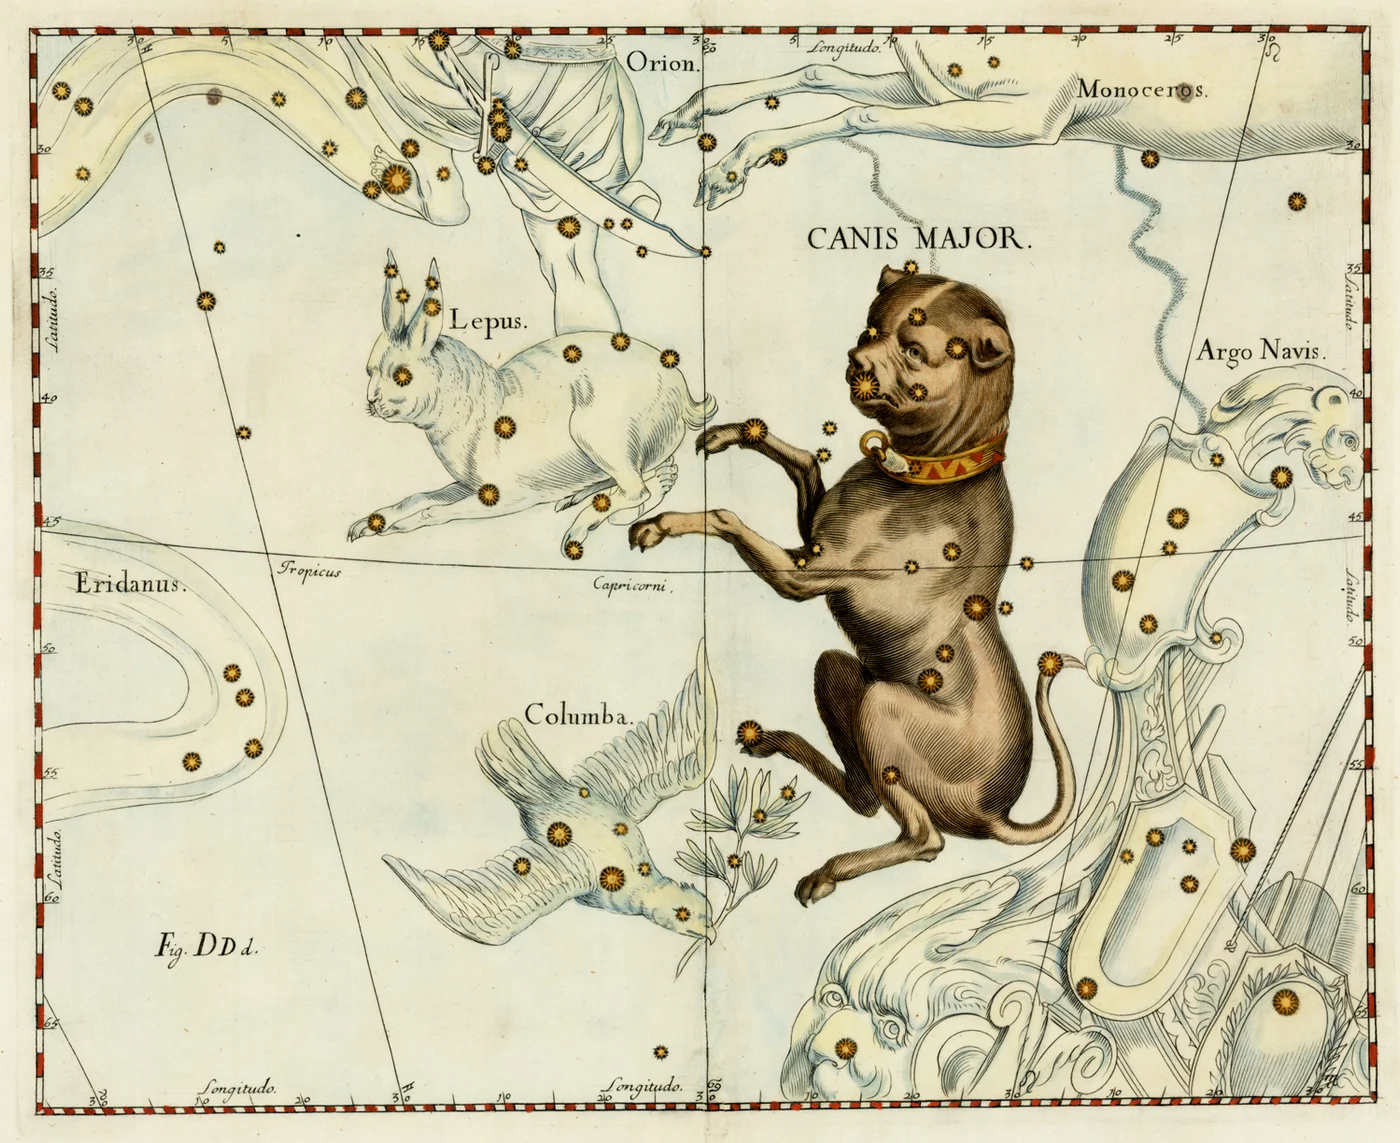
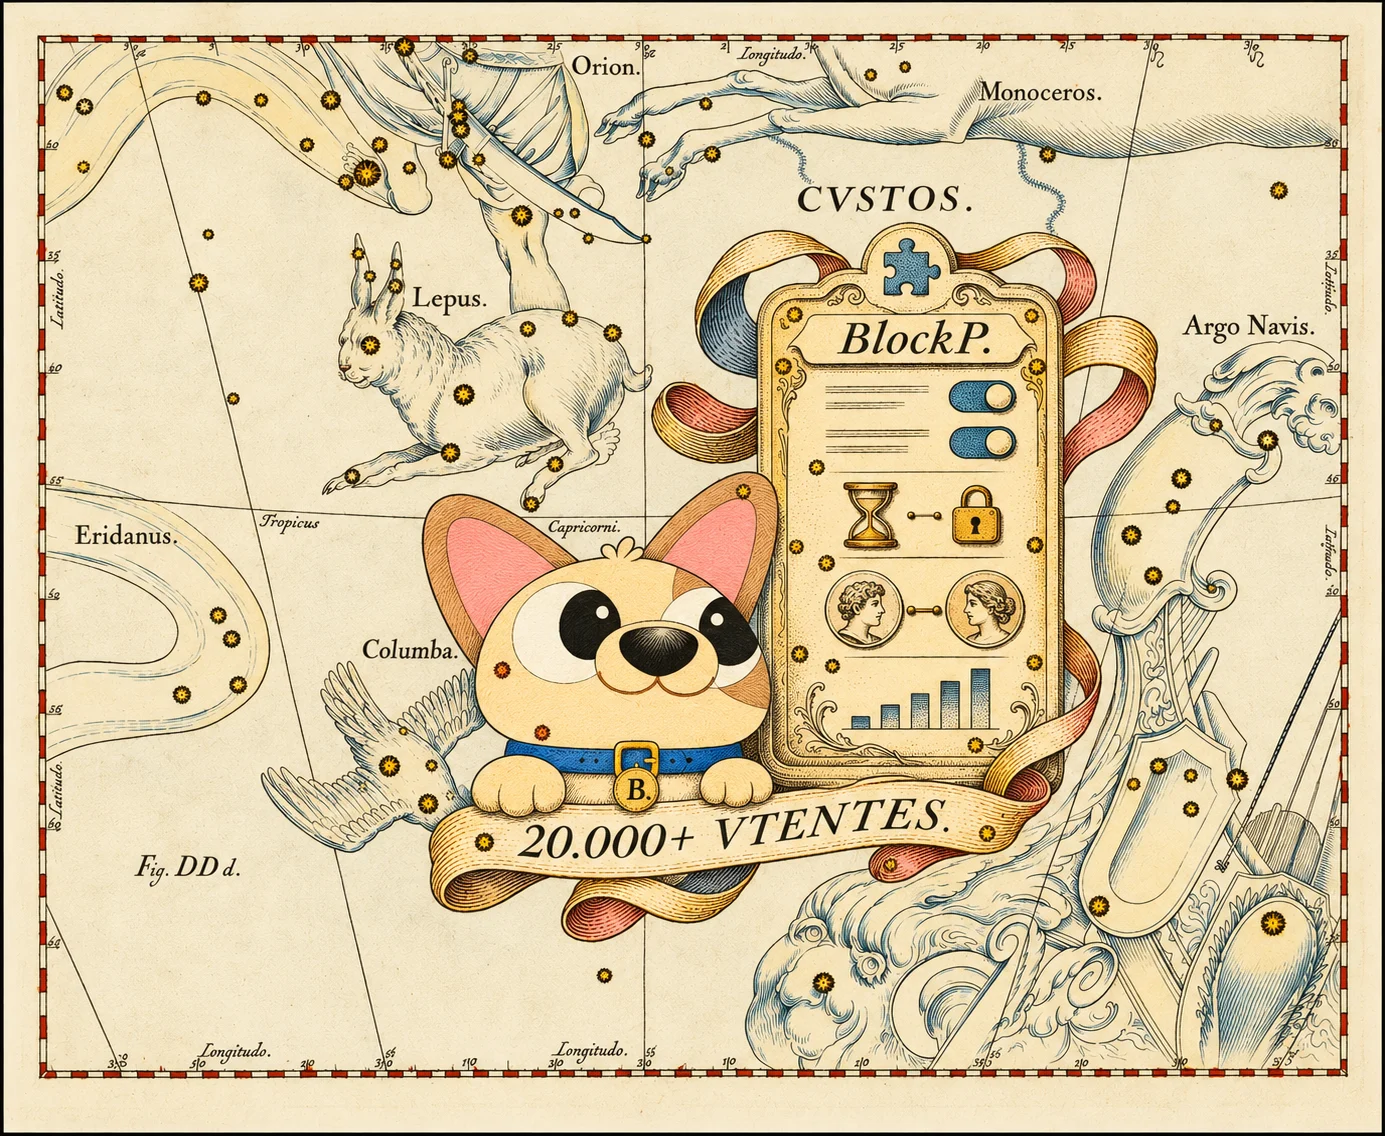
responsive and ew style

diff --git a/src/components/VeilCanvas.tsx b/src/components/VeilCanvas.tsx
@@ -1,0 +1,211 @@
+"use client";
+
+import { useEffect, useRef } from "react";
+import * as THREE from "three";
+import { gsap } from "gsap";
+import { ScrollTrigger } from "gsap/ScrollTrigger";
+import { isSimple, prefersReducedMotion } from "@/lib/scroll";
+
+gsap.registerPlugin(ScrollTrigger);
+
+/*
+ * The NudeNet plate's veil, drawn in WebGL over the card. The card arrives clear; when it
+ * reaches the middle of the screen a fine golden scan line sweeps down it, as if BlockP's
+ * on-device model were checking it, and behind the line the picture dissolves into a veil of
+ * mist: a soft lens blur (a golden-angle spiral of samples), slowly swirling, warmed toward
+ * the paper, with engraved-looking stipple and faint hatching so it still belongs to a 1690
+ * plate. Scrolling back lifts it again. It renders only while the card is on screen.
+ *
+ * Phones and tablets get the same sequence as a light CSS blur instead (no WebGL there).
+ */
+
+const vertex = /* glsl */ `
+  varying vec2 vUv;
+  void main() { vUv = uv; gl_Position = vec4(position.xy, 0.0, 1.0); }
+`;
+
+const fragment = /* glsl */ `
+  precision highp float;
+  varying vec2 vUv;
+  uniform sampler2D uTex;
+  uniform float uScan;      // where the scan line is, 0 = top .. 1 = bottom (past 1: done)
+  uniform float uTime;
+  uniform float uAspect;    // width / height of the card
+  uniform vec2 uRes;        // canvas size in pixels
+
+  float hash(vec2 p) { return fract(sin(dot(p, vec2(127.1, 311.7))) * 43758.5453); }
+  float noise(vec2 p) {
+    vec2 i = floor(p), f = fract(p);
+    vec2 u = f * f * (3.0 - 2.0 * f);
+    return mix(mix(hash(i), hash(i + vec2(1, 0)), u.x), mix(hash(i + vec2(0, 1)), hash(i + vec2(1, 1)), u.x), u.y);
+  }
+  float fbm(vec2 p) {
+    float v = 0.0, a = 0.5;
+    for (int i = 0; i < 5; i++) { v += a * noise(p); p *= 2.03; a *= 0.5; }
+    return v;
+  }
+
+  void main() {
+    vec2 uv = vUv;
+    float fromTop = 1.0 - uv.y;
+
+    // Mist that drifts and curls: a slow domain warp that also bends the picture a little.
+    float t = uTime * 0.12;
+    vec2 w = vec2(fbm(uv * 3.0 + vec2(t, -t * 0.7)), fbm(uv * 3.0 + vec2(5.2 - t * 0.8, 1.3 + t)));
+    float mist = fbm(uv * 4.0 + w * 1.6 + t * 0.5);
+
+    // The scan front is a natural, torn-paper edge (like the burnt, torn edges between the
+    // site's sections): uneven teeth, each a different width and height with softened tips,
+    // plus a fine fibrous tremor, as if the veil were a sheet torn by hand. edge(x) is its
+    // offset (in card heights) at this column, fixed in time.
+    float ph = uv.x * 15.0 + fbm(vec2(uv.x * 2.3, 3.7)) * 4.0;          // uneven spacing
+    float tri = abs(fract(ph) - 0.5) * 2.0;                                  // 0..1..0 teeth
+    tri = sqrt(tri * tri + 0.015);                                           // softened tips
+    float amp = 0.008 + 0.017 * noise(vec2(uv.x * 6.0, 1.3));                // uneven heights
+    float fibre = (noise(vec2(uv.x * 140.0, 7.1)) - 0.5) * 0.005
+                + (noise(vec2(uv.x * 380.0, 2.9)) - 0.5) * 0.0025;
+    float edge = (tri - 0.5) * amp * 2.0 + fibre;
+    // Its local slope, to keep the line an even thickness on steep parts.
+    float e2 = (abs(fract(ph + 0.01) - 0.5) * 2.0 - abs(fract(ph) - 0.5) * 2.0) * amp * 2.0 / 0.01 * 15.0;
+    float thin = 1.0 / sqrt(1.0 + pow(e2 / uAspect, 2.0));
+
+    // 1 where the front has passed (above it): it follows that torn edge, softened a little
+    // by the mist, so the veil rolls in.
+    float front = fromTop - edge + (mist - 0.5) * 0.02;
+    // A short soft margin just inside the edge, so the gold line sits right on the edge.
+    float veil = 1.0 - smoothstep(uScan - 0.022, uScan - 0.002, front);
+    vec2 q = uv + veil * 0.018 * (w - 0.5);
+
+    // Lens blur: samples on a golden-angle spiral (round, soft highlights), wider where the
+    // mist is thicker.
+    float radius = veil * (0.016 + 0.014 * mist);
+    vec3 col = vec3(0.0);
+    const int N = 40;
+    for (int i = 0; i < N; i++) {
+      float fi = float(i);
+      float r = sqrt((fi + 0.5) / float(N));
+      float a = fi * 2.39996323;
+      vec2 o = vec2(cos(a), sin(a) * uAspect) * r * radius;
+      col += texture2D(uTex, q + o).rgb;
+    }
+    col /= float(N);
+
+    // Warm haze toward the paper, brighter where the mist gathers.
+    vec3 paper = vec3(0.93, 0.89, 0.81);
+    col = mix(col, paper, veil * (0.18 + 0.32 * smoothstep(0.35, 0.8, mist)));
+
+    // Engraved texture in the veil: stipple dots and faint diagonal hatching, like the way a
+    // copperplate engraver draws mist.
+    vec2 px = gl_FragCoord.xy;
+    float stip = step(0.86, hash(floor(px / 1.6) + floor(uTime * 6.0)));
+    float hatch = smoothstep(0.75, 1.0, sin((px.x + px.y) * 0.9));
+    col *= 1.0 - veil * (0.07 * stip + 0.05 * hatch * smoothstep(0.45, 0.75, mist));
+
+    // The scan line: one warm gold line along the torn edge, swelling and thinning like a
+    // quill stroke, with a soft glow, a few gold sparks and a warm afterglow behind it. All
+    // gone once the sweep is done.
+    float lineOn = 1.0 - smoothstep(1.0, 1.08, uScan);
+    float along = front;                              // the same edge the veil follows
+    float d = abs(along - uScan) * thin;
+    float stroke = 0.55 + 0.9 * noise(vec2(uv.x * 9.0, 4.4));              // quill pressure
+    float line = exp(-d * d * 52000.0 / (stroke * stroke));
+    float glow = 0.28 * exp(-d * 48.0);
+    float spark = step(0.993, hash(floor(px / 2.0) + floor(uTime * 18.0))) * exp(-d * 30.0);
+    float trail = (along < uScan ? 1.0 : 0.0) * exp(-(uScan - along) * 14.0) * 0.18;
+    vec3 gold = vec3(1.0, 0.8, 0.42);
+    vec3 deep = vec3(0.72, 0.48, 0.16);                                      // the stroke's core
+    col = mix(col, gold, clamp((glow + spark * 1.5 + trail) * lineOn, 0.0, 1.0) * 0.85);
+    col = mix(col, mix(gold, deep, 0.55), clamp(line * lineOn, 0.0, 1.0) * 0.95);
+
+    float alpha = clamp(veil + (line + glow + spark) * lineOn, 0.0, 1.0);
+    gl_FragColor = vec4(col, alpha);
+  }
+`;
+
+export default function VeilCanvas({ src, trigger, card }: {
+  /** The full-colour plate image. */
+  src: string;
+  /** The element whose scroll position drives the veil (the plate's place on the page). */
+  trigger: React.RefObject<HTMLElement | null>;
+  /** The card element, for the CSS version on phones and tablets. */
+  card: React.RefObject<HTMLElement | null>;
+}) {
+  const canvasRef = useRef<HTMLCanvasElement>(null);
+
+  useEffect(() => {
+    const el = trigger.current, canvas = canvasRef.current;
+    if (!el || !canvas || prefersReducedMotion()) return;
+    // The scan reaches the bottom at 85% of the range; the veil then holds.
+    const range = { trigger: el, start: "top 62%", end: "center 38%", scrub: true };
+
+    if (isSimple()) {
+      const tw = gsap.fromTo(card.current, { filter: "blur(0px)" }, { filter: "blur(9px)", ease: "power1.in", scrollTrigger: range });
+      return () => { tw.scrollTrigger?.kill(); tw.kill(); };
+    }
+
+    const renderer = new THREE.WebGLRenderer({ canvas, alpha: true, premultipliedAlpha: false, antialias: false });
+    const scene = new THREE.Scene();
+    const camera = new THREE.Camera();
+    const uniforms = {
+      uTex: { value: null as THREE.Texture | null },
+      uScan: { value: -0.1 }, uTime: { value: 0 }, uAspect: { value: 1 },
+      uRes: { value: new THREE.Vector2(1, 1) },
+    };
+    const material = new THREE.ShaderMaterial({ vertexShader: vertex, fragmentShader: fragment, uniforms, transparent: true });
+    scene.add(new THREE.Mesh(new THREE.PlaneGeometry(2, 2), material));
+
+    let ready = false, visible = false, frame = 0;
+    const clock = new THREE.Clock();
+    const size = () => {
+      const w = canvas.clientWidth || 1, h = canvas.clientHeight || 1;
+      renderer.setPixelRatio(Math.min(window.devicePixelRatio, 2));
+      renderer.setSize(w, h, false);
+      uniforms.uAspect.value = w / h;
+      uniforms.uRes.value.set(w, h);
+    };
+    const draw = () => {
+      if (!ready) return;
+      uniforms.uTime.value = clock.getElapsedTime();
+      renderer.render(scene, camera);
+    };
+    // Animate the mist only while the card is on screen and the veil is showing.
+    const loop = () => {
+      frame = 0;
+      if (!visible) return;
+      draw();
+      if (uniforms.uScan.value > -0.05) frame = requestAnimationFrame(loop);
+    };
+    const kick = () => { if (!frame && visible) frame = requestAnimationFrame(loop); };
+
+    new THREE.TextureLoader().load(src, (tex) => {
+      tex.colorSpace = THREE.SRGBColorSpace;
+      tex.minFilter = THREE.LinearFilter;
+      uniforms.uTex.value = tex;
+      ready = true;
+      size();
+      draw();
+    });
+
+    const state = { p: 0 };
+    const tw = gsap.to(state, {
+      p: 1, ease: "none", scrollTrigger: range,
+      onUpdate: () => { uniforms.uScan.value = -0.1 + state.p * 1.3; kick(); if (!frame) draw(); },
+    });
+    const io = new IntersectionObserver(([e]) => { visible = e.isIntersecting; kick(); });
+    io.observe(canvas);
+    const onResize = () => { size(); draw(); };
+    window.addEventListener("resize", onResize);
+
+    return () => {
+      cancelAnimationFrame(frame);
+      io.disconnect();
+      window.removeEventListener("resize", onResize);
+      tw.scrollTrigger?.kill(); tw.kill();
+      uniforms.uTex.value?.dispose();
+      material.dispose();
+      renderer.dispose();
+    };
+  }, [src, trigger, card]);
+
+  return <canvas ref={canvasRef} aria-hidden className="pointer-events-none absolute inset-0 h-full w-full" />;
+}

diff --git a/src/components/AtlasPlate.tsx b/src/components/AtlasPlate.tsx
@@ -4,6 +4,7 @@ import { useEffect, useRef } from "react";
 import { gsap } from "gsap";
 import { ScrollTrigger } from "gsap/ScrollTrigger";
 import { prefersReducedMotion } from "@/lib/scroll";
+import VeilCanvas from "@/components/VeilCanvas";
 
 gsap.registerPlugin(ScrollTrigger);
 
@@ -20,18 +21,21 @@ export type Sky =
   | "pegasus" | "canismajor" | "draco" | "libra" | "perseus" | "sextans";
 export type SkyProject = { tagline: string; label: string; body: string; link?: string; sky: Sky };
 
-// width / height of each plate image; `hevelius`: a real plate from the 1690 atlas.
-const PLATES: Record<Sky, { name: string; fig: string; alt: string; aspect: number; hevelius?: boolean }> = {
+// width / height of each plate image. All are new or redrawn plates in the style of Hevelius'
+// atlas (1690). `veil`: in the middle of the screen a scan sweeps the card and veils it in
+// mist (VeilCanvas), the way BlockP blurs an image on the device (the NudeNet write-up).
+const PLATES: Record<Sky, { name: string; fig: string; alt: string; aspect: number; veil?: string }> = {
   scutum: { name: "Scutum", fig: "A", aspect: 1.5, alt: "Scutum: a gilded shield that has caught a fishing hook baited with a sealed letter and coins" },
   gemma: { name: "Gemma", fig: "B", aspect: 1.5, alt: "Gemma: a diamond ring on a velvet cushion, a prism splitting the light that falls on it" },
   noctua: { name: "Noctua", fig: "C", aspect: 1.5, alt: "Noctua: an owl in spectacles writing with a quill on a stack of books, a magnifying glass beside it" },
   columbae: { name: "Columbae", fig: "D", aspect: 1.5, alt: "Columbae: two doves passing a sealed, padlocked letter between them" },
-  pegasus: { name: "Pegasus", fig: "T", aspect: 1400 / 1140, hevelius: true, alt: "Pegasus, the winged horse, from Hevelius' star atlas" },
-  canismajor: { name: "Canis Major", fig: "DD", aspect: 1400 / 1143, hevelius: true, alt: "Canis Major, the great dog, from Hevelius' star atlas" },
-  draco: { name: "Draco", fig: "B", aspect: 1400 / 1140, hevelius: true, alt: "Draco, the dragon, coiled round the pole, from Hevelius' star atlas" },
-  libra: { name: "Libra", fig: "HH", aspect: 1400 / 1148, hevelius: true, alt: "Libra, the scales, from Hevelius' star atlas" },
-  perseus: { name: "Perseus", fig: "W", aspect: 1400 / 1157, hevelius: true, alt: "Perseus with Medusa's head, from Hevelius' star atlas" },
-  sextans: { name: "Sextans", fig: "VV", aspect: 1400 / 1149, hevelius: true, alt: "Sextans, Hevelius' own sextant, from his star atlas" },
+  pegasus: { name: "Pagina", fig: "T", aspect: 1388 / 1133, alt: "Pagina: the BlockP website drawn as an engraved browser window, the corgi mascot peeking up, on a ribbon reading 70,000 a day" },
+  canismajor: { name: "Custos", fig: "DD", aspect: 1385 / 1136, alt: "Custos: the BlockP extension's panel with its blockers, timed unlock and partners, guarded by the corgi mascot, on a ribbon reading 20,000+ users" },
+  draco: { name: "Claves", fig: "B", aspect: 1387 / 1134, alt: "Claves: a cloud linked to a code lock, an email approval with a wax seal, and a key with a padlock" },
+  libra: { name: "Categoriae", fig: "H", aspect: 1383 / 1137, alt: "Categoriae: website cards filed into a cabinet of labelled drawers, a balance scale beside them" },
+  perseus: { name: "Velum", fig: "W", aspect: 1377 / 1142, veil: "Scanned and veiled as it scrolls into view, the way BlockP blurs an image on the user's own device.",
+    alt: "Velum: a laptop showing a gallery in which one picture is veiled by mist, a shield with a tick, the corgi peeking over it" },
+  sextans: { name: "Mensura", fig: "VV", aspect: 1382 / 1138, alt: "Mensura: a funnel narrowing in coloured bands, its stream splitting into two cards, A and B" },
 };
 export const plateAspect = (sky: Sky) => PLATES[sky].aspect;
 
@@ -111,13 +115,16 @@ export default function AtlasPlate({ sky }: { sky: Sky }) {
               alt={plate.alt}
               className="absolute inset-0 h-full w-full select-none opacity-0 [filter:drop-shadow(0_6px_8px_rgba(40,25,10,0.28))]" />
           </div>
+          {/* The NudeNet plate: scanned and veiled in mist as it reaches the middle of the screen. */}
+          {plate.veil && <VeilCanvas src={`/art/plates/${sky}.webp`} trigger={root} card={card} />}
           {/* Lamp light on the paper, following the pointer. */}
           <div ref={glare} className="pointer-events-none absolute inset-0 opacity-0 mix-blend-soft-light [background:radial-gradient(circle_at_var(--gx,50%)_var(--gy,50%),rgba(255,248,230,0.75),rgba(255,248,230,0)_55%)]" />
         </div>
       </div>
       <figcaption className="mt-4 flex flex-wrap items-baseline gap-x-3 font-display text-[11px] text-ink/55">
         <span className="font-semibold uppercase tracking-[0.22em] text-ink/75">Fig. {plate.fig} · {plate.name}</span>
-        <span className="font-serif text-[14px] italic">{plate.hevelius ? "Johannes Hevelius, Firmamentum Sobiescianum, 1690" : "after the star atlas of Johannes Hevelius, 1690"}</span>
+        <span className="font-serif text-[14px] italic">after the star atlas of Johannes Hevelius, 1690</span>
+        {plate.veil && <span className="mt-1 basis-full font-serif text-[14px] italic text-ink/70">{plate.veil}</span>}
       </figcaption>
     </figure>
   );

diff --git a/src/app/page.tsx b/src/app/page.tsx
@@ -15,8 +15,8 @@ export default function Home() {
 
       {/* I · About: its painting tears in under the hero, then the page. */}
       <section id="about">
-        {/* Rembrandt, Aristotle with a Bust of Homer (1653): a thinker in golden light. */}
-        <ChapterOpener title="About" tagline={about.intro} art={art.aristotle} from="image" seed={29} />
+        {/* Friedrich, Two Men Contemplating the Moon (c. 1825–30): dusk, a crescent moon. */}
+        <ChapterOpener title="About" tagline={about.intro} art={art.moon} from="image" seed={29} />
         <div className="relative bg-paper px-6 py-[14vh] lg:pl-[16rem] md:pr-12">
           {/* Cellarius, the Copernican system (1660), faded behind the text. */}
           <ChartBackdrop src="/art/backgrounds/cellarius-copernicus.jpg" />
@@ -51,7 +51,7 @@ export default function Home() {
       {/* II · NovaFocus */}
       <section id="novafocus">
         <ChapterOpener title={novafocus.title} tagline={novafocus.tagline} art={novafocus.art} scene={novafocus.scene} blurNote={novafocus.blurNote} seed={13} />
-        {/* Six plates from Hevelius' star atlas, three by two; each travels down to its write-up. */}
+        {/* Six star-atlas plates redrawn from Hevelius (1690), three by two; each travels down to its write-up. */}
         <AtlasIntro tagline="Six things I built at BlockP." plates={novafocus.subsections.map((s) => s.sky)} cols={3}
           backdrop={{ src: "/art/backgrounds/cellarius-boreale.jpg", alt: "" }} />
         <div className="bg-paper px-6 lg:pl-[16rem] md:pr-12">
@@ -97,8 +97,8 @@ export default function Home() {
 
       {/* VI · Contact */}
       <section id="contact">
-        {/* Velázquez, Juan de Pareja (1650): looking straight at you. */}
-        <ChapterOpener title="Contact" tagline="Let’s build something worth measuring." art={art.pareja} seed={67} />
+        {/* Aert van der Neer, Landscape at Sunset (1650s): the day's last light over the river. */}
+        <ChapterOpener title="Contact" tagline="Let’s build something worth measuring." art={art.sunset} seed={67} />
         <div className="relative bg-paper px-6 py-[12vh] lg:pl-[16rem] md:pr-12">
           {/* Cellarius, the southern sky with ships and astronomers (1660), faded behind. */}
           <ChartBackdrop src="/art/backgrounds/cellarius-australe.jpg" />
@@ -112,7 +112,7 @@ export default function Home() {
             ))}
             <a href="/Arpit_Ray_Resume.pdf" className="rounded-full bg-magenta px-4 py-2 text-white">Download résumé</a>
           </div>
-          <p className="mt-24 font-display text-[11px] text-ink/50">Paintings: Rembrandt and Diego Velázquez (The Metropolitan Museum of Art), Pieter Bruegel the Elder and Johannes Vermeer, public domain. Star charts: Andreas Cellarius, Harmonia Macrocosmica (1660), and Johannes Hevelius, Firmamentum Sobiescianum (1690). The four project plates were made for this site in the style of Hevelius.</p>
+          <p className="mt-24 font-display text-[11px] text-ink/50">Paintings: Caspar David Friedrich and Aert van der Neer (The Metropolitan Museum of Art), Pieter Bruegel the Elder and Johannes Vermeer, public domain. Star charts: Andreas Cellarius, Harmonia Macrocosmica (1660). The ten star-atlas plates were made for this site after Johannes Hevelius, Firmamentum Sobiescianum (1690), six of them redrawn from his own plates.</p>
           </div>
         </div>
       </section>

diff --git a/src/components/Chapter.tsx b/src/components/Chapter.tsx
@@ -66,9 +66,14 @@ export function ChapterOpener({ title, tagline, art, scene, blurNote, from = "va
 
   useEffect(() => {
     const ctx = gsap.context(() => {
+      // Phones: the opener is a short, unpinned picture, so the title arrives while it comes
+      // into view instead of after it has started to leave.
+      const phone = window.matchMedia("(max-width: 767px)").matches;
       gsap.fromTo(heading.current, { yPercent: 40, opacity: 0 }, {
         yPercent: -10, opacity: 1, ease: "power2.out",
-        scrollTrigger: { trigger: wrap.current, start: blurred ? "10% top" : "top 60%", end: blurred ? "45% top" : "35% top", scrub: true },
+        scrollTrigger: phone
+          ? { trigger: wrap.current, start: "top 85%", end: "top 30%", scrub: true }
+          : { trigger: wrap.current, start: blurred ? "10% top" : "top 60%", end: blurred ? "45% top" : "35% top", scrub: true },
       });
       if (blurred && !prefersReducedMotion()) {
         // Scaled up a touch while blurred, so the soft edges stay off screen.
@@ -82,8 +87,9 @@ export function ChapterOpener({ title, tagline, art, scene, blurNote, from = "va
 
   return (
     <div className="relative z-10" style={torn ? { marginTop: "calc(-1 * var(--tear-h))" } : undefined}>
-    <div ref={wrap} className="relative h-[200vh] simple:h-[140vh]" style={torn ? tearMask(seed) : undefined}>
-      <div className="sticky top-0 h-svh overflow-hidden bg-night">
+    {/* Phones: a picture just over half the screen tall that scrolls by (no pin). */}
+    <div ref={wrap} className="relative h-[200vh] simple:h-[140vh] max-md:h-auto!" style={torn ? tearMask(seed) : undefined}>
+      <div className="sticky top-0 h-svh overflow-hidden bg-night max-md:relative max-md:h-[58svh]">
         <div ref={painting} className="absolute inset-0">
           <div className="absolute inset-0 simple:hidden">
             {scene ? (
@@ -108,7 +114,7 @@ export function ChapterOpener({ title, tagline, art, scene, blurNote, from = "va
             {blurNote}
           </p>
         )}
-        <div ref={heading} className="absolute inset-x-6 bottom-[12vh] lg:left-[16rem] md:right-12">
+        <div ref={heading} className="absolute inset-x-6 bottom-[12vh] lg:left-[16rem] md:right-12 max-md:bottom-[calc(var(--tear-h)*0.6)]">
           <h2 className="font-display text-[clamp(64px,13vw,210px)] font-bold leading-[0.85] tracking-[-0.04em] text-white">{title}</h2>
           <p className="mt-6 max-w-3xl text-[clamp(22px,2.6vw,40px)] leading-[1.1] text-white">
             <Tagline text={tagline} />
@@ -147,7 +153,7 @@ export function Subsection({ tagline, label, body, visual, link, flip = false }:
   flip?: boolean;
 }) {
   return (
-    <article className="grid gap-10 py-[14vh] md:grid-cols-12 md:items-center">
+    <article className="grid gap-6 py-[6vh] md:grid-cols-12 md:items-center md:gap-10 md:py-[14vh]">
       <Reveal className={`md:col-span-5 ${flip ? "md:order-2" : ""}`}>
         <h3 className="text-[clamp(34px,4vw,60px)] leading-[1.02] text-ink"><Tagline text={tagline} /></h3>
         <p className="mt-8 font-display text-[14px] font-semibold text-ink">{label}</p>

diff --git a/src/content/site.ts b/src/content/site.ts
@@ -15,13 +15,13 @@ const painting = (name: string, alt: string, focus?: [number, number]): Art => (
   focus,
 });
 
-// Public domain: Johannes Vermeer (Wikimedia Commons); Rembrandt and Velázquez (The Metropolitan
-// Museum of Art, Open Access).
+// Public domain: Johannes Vermeer (Wikimedia Commons); Caspar David Friedrich and Aert van der
+// Neer (The Metropolitan Museum of Art, Open Access).
 export const art = {
-  // On a wide screen keep his face and his hand on Homer's bust.
-  aristotle: painting("rembrandt-aristotle", "Rembrandt, Aristotle with a Bust of Homer (1653)", [0.45, 0.3]),
-  // On a wide screen keep his face in the upper half, above the chapter title.
-  pareja: painting("velazquez-pareja", "Diego Velázquez, Juan de Pareja (1650)", [0.55, 0.34]),
+  // On a narrow screen keep the two men and the crescent moon (left of centre).
+  moon: painting("friedrich-moon", "Caspar David Friedrich, Two Men Contemplating the Moon (c. 1825–30)", [0.32, 0.5]),
+  // On a narrow screen keep the glowing clouds and the bare tree (right of centre).
+  sunset: painting("neer-sunset", "Aert van der Neer, Landscape at Sunset (1650s)", [0.62, 0.45]),
   geographer: painting("geographer", "Johannes Vermeer, The Geographer (1669)"),
   astronomer: painting("astronomer", "Johannes Vermeer, The Astronomer (1668)"),
   artOfPainting: painting("art-of-painting", "Johannes Vermeer, The Art of Painting (c. 1666–68)"),
